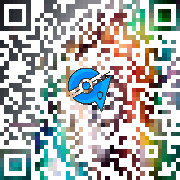
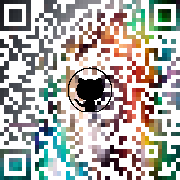
fix img inside

diff --git a/test.py b/test.py
@@ -26,13 +26,13 @@ Qrcode('测试一下resize后set_border', 'H').resize(230).set_border(10).genera
 Qrcode('再看看如何', 'H').paint('pic/test.jpg').resize(230).set_border(10).generate('testpic/test8.png')
 
 # 由于根据传入图片像素会改变二维码尺寸，如果想添加border请在调用该函数后使用resize调整大小，否则你的电脑风扇可能会很响:)
-Qrcode('测试二维码中间加入图片', 'H').put_img_inside('pic/mystic.png').resize(180).generate('testpic/test9.png')
+Qrcode('测试二维码中间加入图片', 'H').put_img_inside('pic/test1.jpg').resize(180).generate('testpic/test9.png')
 
-Qrcode('测试图片填充二维码中间加入图片', 'H').paint('pic/test.jpg').put_img_inside('pic/mystic.png').resize(180).generate('testpic/testA.png')
+Qrcode('测试图片填充二维码中间加入图片', 'H').paint('pic/test.jpg').put_img_inside('pic/test1.jpg').resize(180).generate('testpic/testA.png')
 
-Qrcode('测试颜色填充二维码中间加入图片', 'H').colour('#882566').put_img_inside('pic/mystic.png').resize(180).generate('testpic/testB.png')
+Qrcode('测试颜色填充二维码中间加入图片', 'H').colour('#882566').put_img_inside('pic/test1.jpg').resize(180).generate('testpic/testB.png')
 
-Qrcode('测试二维码中间加入图片后添加border', 'H').put_img_inside('pic/mystic.png').resize(160).set_border(10).generate('testpic/testC.png')
+Qrcode('测试二维码中间加入图片后添加border', 'H').put_img_inside('pic/test1.jpg').resize(160).set_border(10).generate('testpic/testC.png')
 
 Qrcode('gif试试看，但效果并不好看，而且暂不支持set_border', 'H').fill_gif('pic/pla.gif').resize(250).generate('testpic/testD.gif')
 Qrcode('gif试试看，但效果并不好看，而且暂不支持set_border', 'H').fill_gif('pic/bounce.gif').resize(250).generate('testpic/testE.gif')

diff --git a/qsqrcode/qrcode.py b/qsqrcode/qrcode.py
@@ -100,7 +100,11 @@ class Qrcode:
         for x in range(img_len):
             for y in range(img_len):
                 color = img.getpixel((x, y))
-                if color[3] > 0:
+                if len(color) > 3 and color[3] > 0:
+                    self.qrcode.putpixel((x + put_begin_xy, y + put_begin_xy), color)
+                elif len(color) > 2 and color < (100, 100, 100):
+                    self.qrcode.putpixel((x + put_begin_xy, y + put_begin_xy), color)
+                elif color is int and color < 100:
                     self.qrcode.putpixel((x + put_begin_xy, y + put_begin_xy), color)
         return self
 
